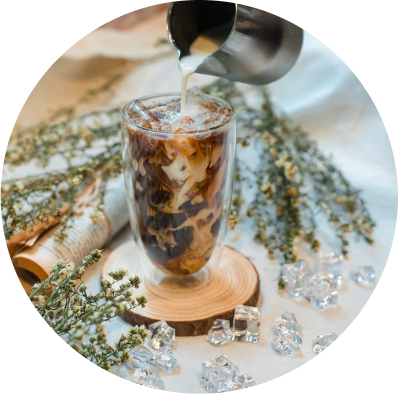
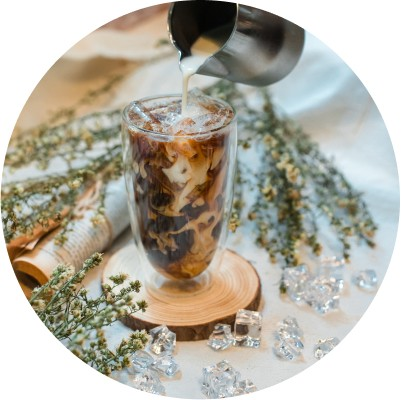
add optimized photos&update about gallery tag by picture

diff --git a/src/partials/gallery.html b/src/partials/gallery.html
@@ -1,54 +1,106 @@
 <section class="gallery">
   <div class="container">
     <h2 class="visually-hidden">Gallery</h2>
+
     <ul class="gallery__list">
       <li class="gallery__item">
-        <img
-          class="gallery__img"
-          srcset="
-            ./images/content-img/gallery/gallery-1_480@1x.jpg   279w,
-            ./images/content-img/gallery/gallery-1_480@2x.jpg   558w,
-            ./images/content-img/gallery/gallery-1_768@1x.jpg   704w,
-            ./images/content-img/gallery/gallery-1_768@2x.jpg  1408w,
-            ./images/content-img/gallery/gallery-1_1200@1x.jpg 1013w,
-            ./images/content-img/gallery/gallery-1_1200@2x.jpg 2026w
-          "
-          sizes="(min-width: 1200px) 1013px, (min-width: 768px) 704px, (min-width: 480px) 279px, 100vw"
-          src="./images/content-img/gallery/gallery-1_480@1x.jpg"
-          alt="ice-cream picture "
-        />
+        <picture>
+          <source
+            srcset="
+              ./images/content-img/gallery/gallery-1_1200@1x.jpg 1x,
+              ./images/content-img/gallery/gallery-1_1200@2x.jpg 2x
+            "
+            media="(min-width: 1200px)"
+            type="image/png"
+          />
+          <source
+            srcset="
+              ./images/content-img/gallery/gallery-1_768@1x.jpg 1x,
+              ./images/content-img/gallery/gallery-1_768@2x.jpg 2x
+            "
+            media="(min-width: 768px)"
+            type="image/png"
+          />
+          <source
+            srcset="
+              ./images/content-img/gallery/gallery-1_480@1x.jpg 1x,
+              ./images/content-img/gallery/gallery-1_480@2x.jpg 2x
+            "
+            media="(max-width: 767px)"
+            type="image/png"
+          />
+          <img
+            class="gallery__img"
+            src="./images/content-img/gallery/gallery-1_480@1x.jpg"
+            alt="ice-cream picture "
+          />
+        </picture>
       </li>
       <li class="gallery__item">
-        <img
-          class="gallery__img"
-          srcset="
-            ./images/content-img/gallery/gallery-2_480@1x.jpg   279w,
-            ./images/content-img/gallery/gallery-2_480@2x.jpg   558w,
-            ./images/content-img/gallery/gallery-2_768@1x.jpg   704w,
-            ./images/content-img/gallery/gallery-2_768@2x.jpg  1408w,
-            ./images/content-img/gallery/gallery-2_1200@1x.jpg 1013w,
-            ./images/content-img/gallery/gallery-2_1200@2x.jpg 2026w
-          "
-          sizes="(min-width: 1200px) 1013px, (min-width: 768px) 704px, (min-width: 480px) 279px, 100vw"
-          src="./images/content-img/gallery/gallery-2_480@1x.jpg"
-          alt="ice-cream picture "
-        />
+        <picture>
+          <source
+            srcset="
+              ./images/content-img/gallery/gallery-2_1200@1x.jpg 1x,
+              ./images/content-img/gallery/gallery-2_1200@2x.jpg 2x
+            "
+            media="(min-width: 1200px)"
+            type="image/png"
+          />
+          <source
+            srcset="
+              ./images/content-img/gallery/gallery-2_768@1x.jpg 1x,
+              ./images/content-img/gallery/gallery-2_768@2x.jpg 2x
+            "
+            media="(min-width: 768px)"
+            type="image/png"
+          />
+          <source
+            srcset="
+              ./images/content-img/gallery/gallery-2_480@1x.jpg 1x,
+              ./images/content-img/gallery/gallery-2_480@2x.jpg 2x
+            "
+            media="(max-width: 767px)"
+            type="image/png"
+          />
+          <img
+            class="gallery__img"
+            src="./images/content-img/gallery/gallery-2_480@1x.jpg"
+            alt="ice-cream picture "
+          />
+        </picture>
       </li>
       <li class="gallery__item">
-        <img
-          class="gallery__img"
-          srcset="
-            ./images/content-img/gallery/gallery-3_480@1x.jpg   279w,
-            ./images/content-img/gallery/gallery-3_480@2x.jpg   558w,
-            ./images/content-img/gallery/gallery-3_768@1x.jpg   704w,
-            ./images/content-img/gallery/gallery-3_768@2x.jpg  1408w,
-            ./images/content-img/gallery/gallery-3_1200@1x.jpg 1013w,
-            ./images/content-img/gallery/gallery-3_1200@2x.jpg 2026w
-          "
-          sizes="(min-width: 1200px) 1013px, (min-width: 768px) 704px, (min-width: 480px) 279px, 100vw"
-          src="./images/content-img/gallery/gallery-3_480@1x.jpg"
-          alt="ice-cream picture "
-        />
+        <picture>
+          <source
+            srcset="
+              ./images/content-img/gallery/gallery-3_1200@1x.jpg 1x,
+              ./images/content-img/gallery/gallery-3_1200@2x.jpg 2x
+            "
+            media="(min-width: 1200px)"
+            type="image/png"
+          />
+          <source
+            srcset="
+              ./images/content-img/gallery/gallery-3_768@1x.jpg 1x,
+              ./images/content-img/gallery/gallery-3_768@2x.jpg 2x
+            "
+            media="(min-width: 768px)"
+            type="image/png"
+          />
+          <source
+            srcset="
+              ./images/content-img/gallery/gallery-3_480@1x.jpg 1x,
+              ./images/content-img/gallery/gallery-3_480@2x.jpg 2x
+            "
+            media="(max-width: 767px)"
+            type="image/png"
+          />
+          <img
+            class="gallery__img"
+            src="./images/content-img/gallery/gallery-3_480@1x.jpg"
+            alt="ice-cream picture "
+          />
+        </picture>
       </li>
     </ul>
     <button

diff --git a/src/partials/about.html b/src/partials/about.html
@@ -2,23 +2,42 @@
   <div class="container">
     <h2 class="about__title" id="how">tradition and love</h2>
     <h3 class="about__subtitle">how it’s made?</h3>
+
     <div class="about__tablet">
       <div class="about__background">
-        <img
-          class="about__img"
-          srcset="
-            ./images/content-img/about/about_480@1x.png  278w,
-            ./images/content-img/about/about_480@2x.png  556w,
-            ./images/content-img/about/about_768@1x.png  335w,
-            ./images/content-img/about/about_768@2x.png  670w,
-            ./images/content-img/about/about_1200@1x.png 490w,
-            ./images/content-img/about/about_1200@2x.png 980w
-          "
-          sizes="(min-width: 1200px) 490px, (min-width: 768px) 335px, (min-width: 320px) 278px, 100vw"
-          src="./images/content-img/about/about_480@1x.png"
-          alt="Корова"
-        />
+        <picture>
+          <source
+            srcset="
+              ./images/content-img/about/about_1200@1x.png 1x,
+              ./images/content-img/about/about_1200@2x.png 2x
+            "
+            media="(min-width: 1200px)"
+            type="image/png"
+          />
+          <source
+            srcset="
+              ./images/content-img/about/about_768@1x.png 1x,
+              ./images/content-img/about/about_768@2x.png 2x
+            "
+            media="(min-width: 768px)"
+            type="image/png"
+          />
+          <source
+            srcset="
+              ./images/content-img/about/about_480@1x.png 1x,
+              ./images/content-img/about/about_480@2x.png 2x
+            "
+            media="(max-width: 767px)"
+            type="image/png"
+          />
+          <img
+            class="about__img"
+            src="./images/content-img/about/about_480@1x.png"
+            alt="Корова"
+          />
+        </picture>
       </div>
+
       <div class="about__text-box">
         <div class="about__description">
           <p class="about__text">
@@ -38,6 +57,7 @@
             This is enough to choose ice cream and coffee for any mood!
           </p>
         </div>
+
         <div class="about__btn">
           <button class="btn js-open-modal" type="button" data-modal="3">
             Read more
